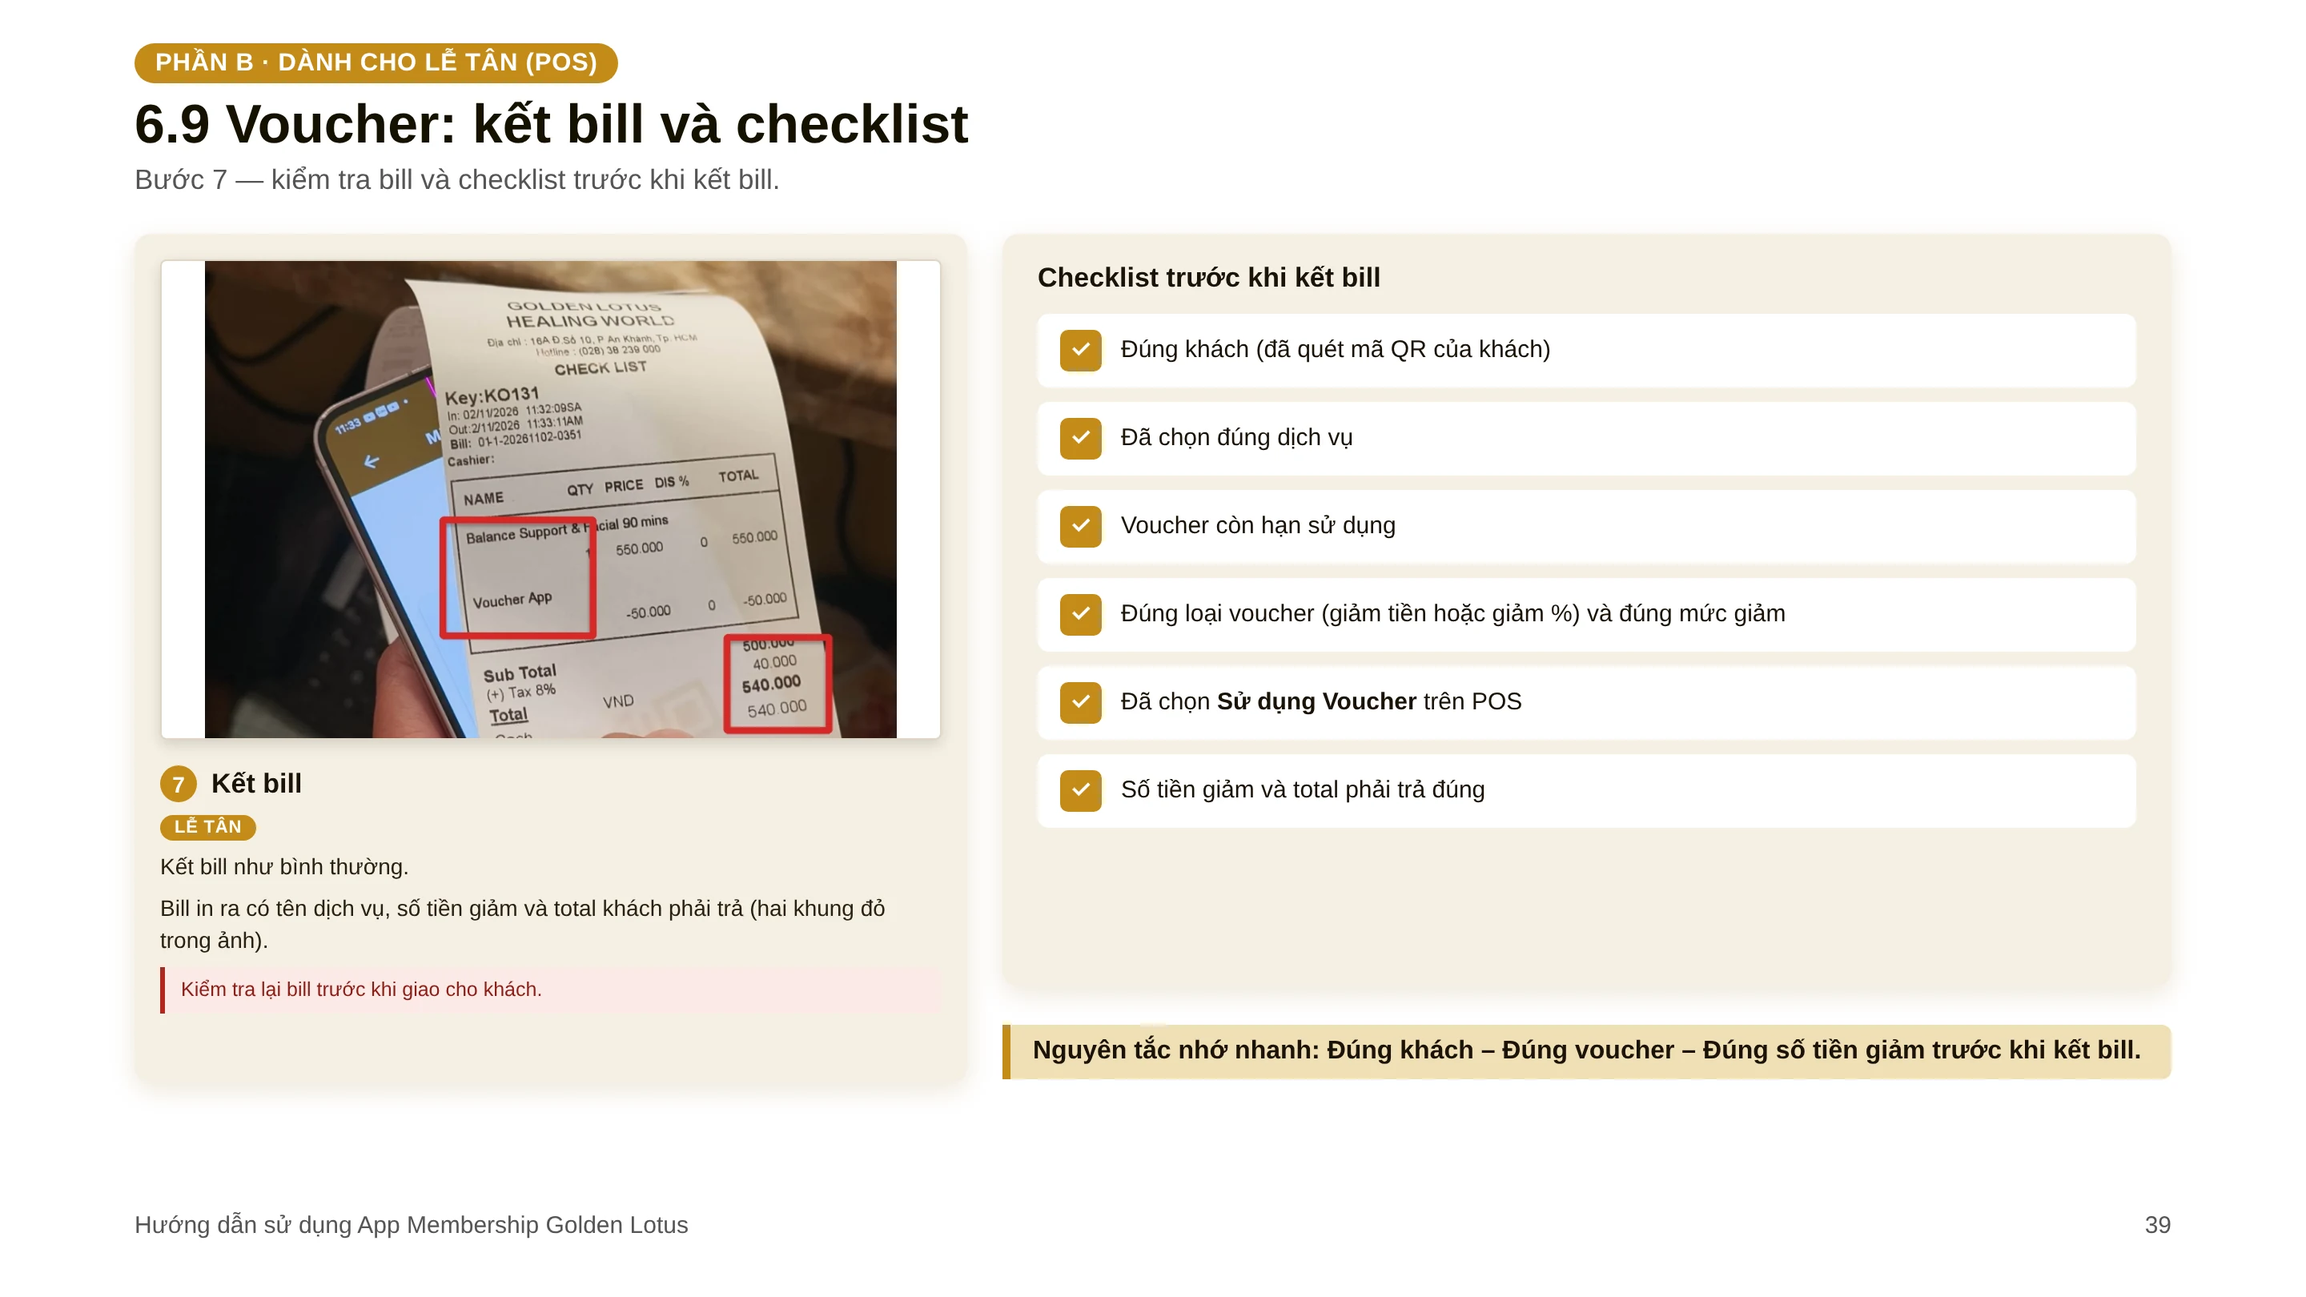
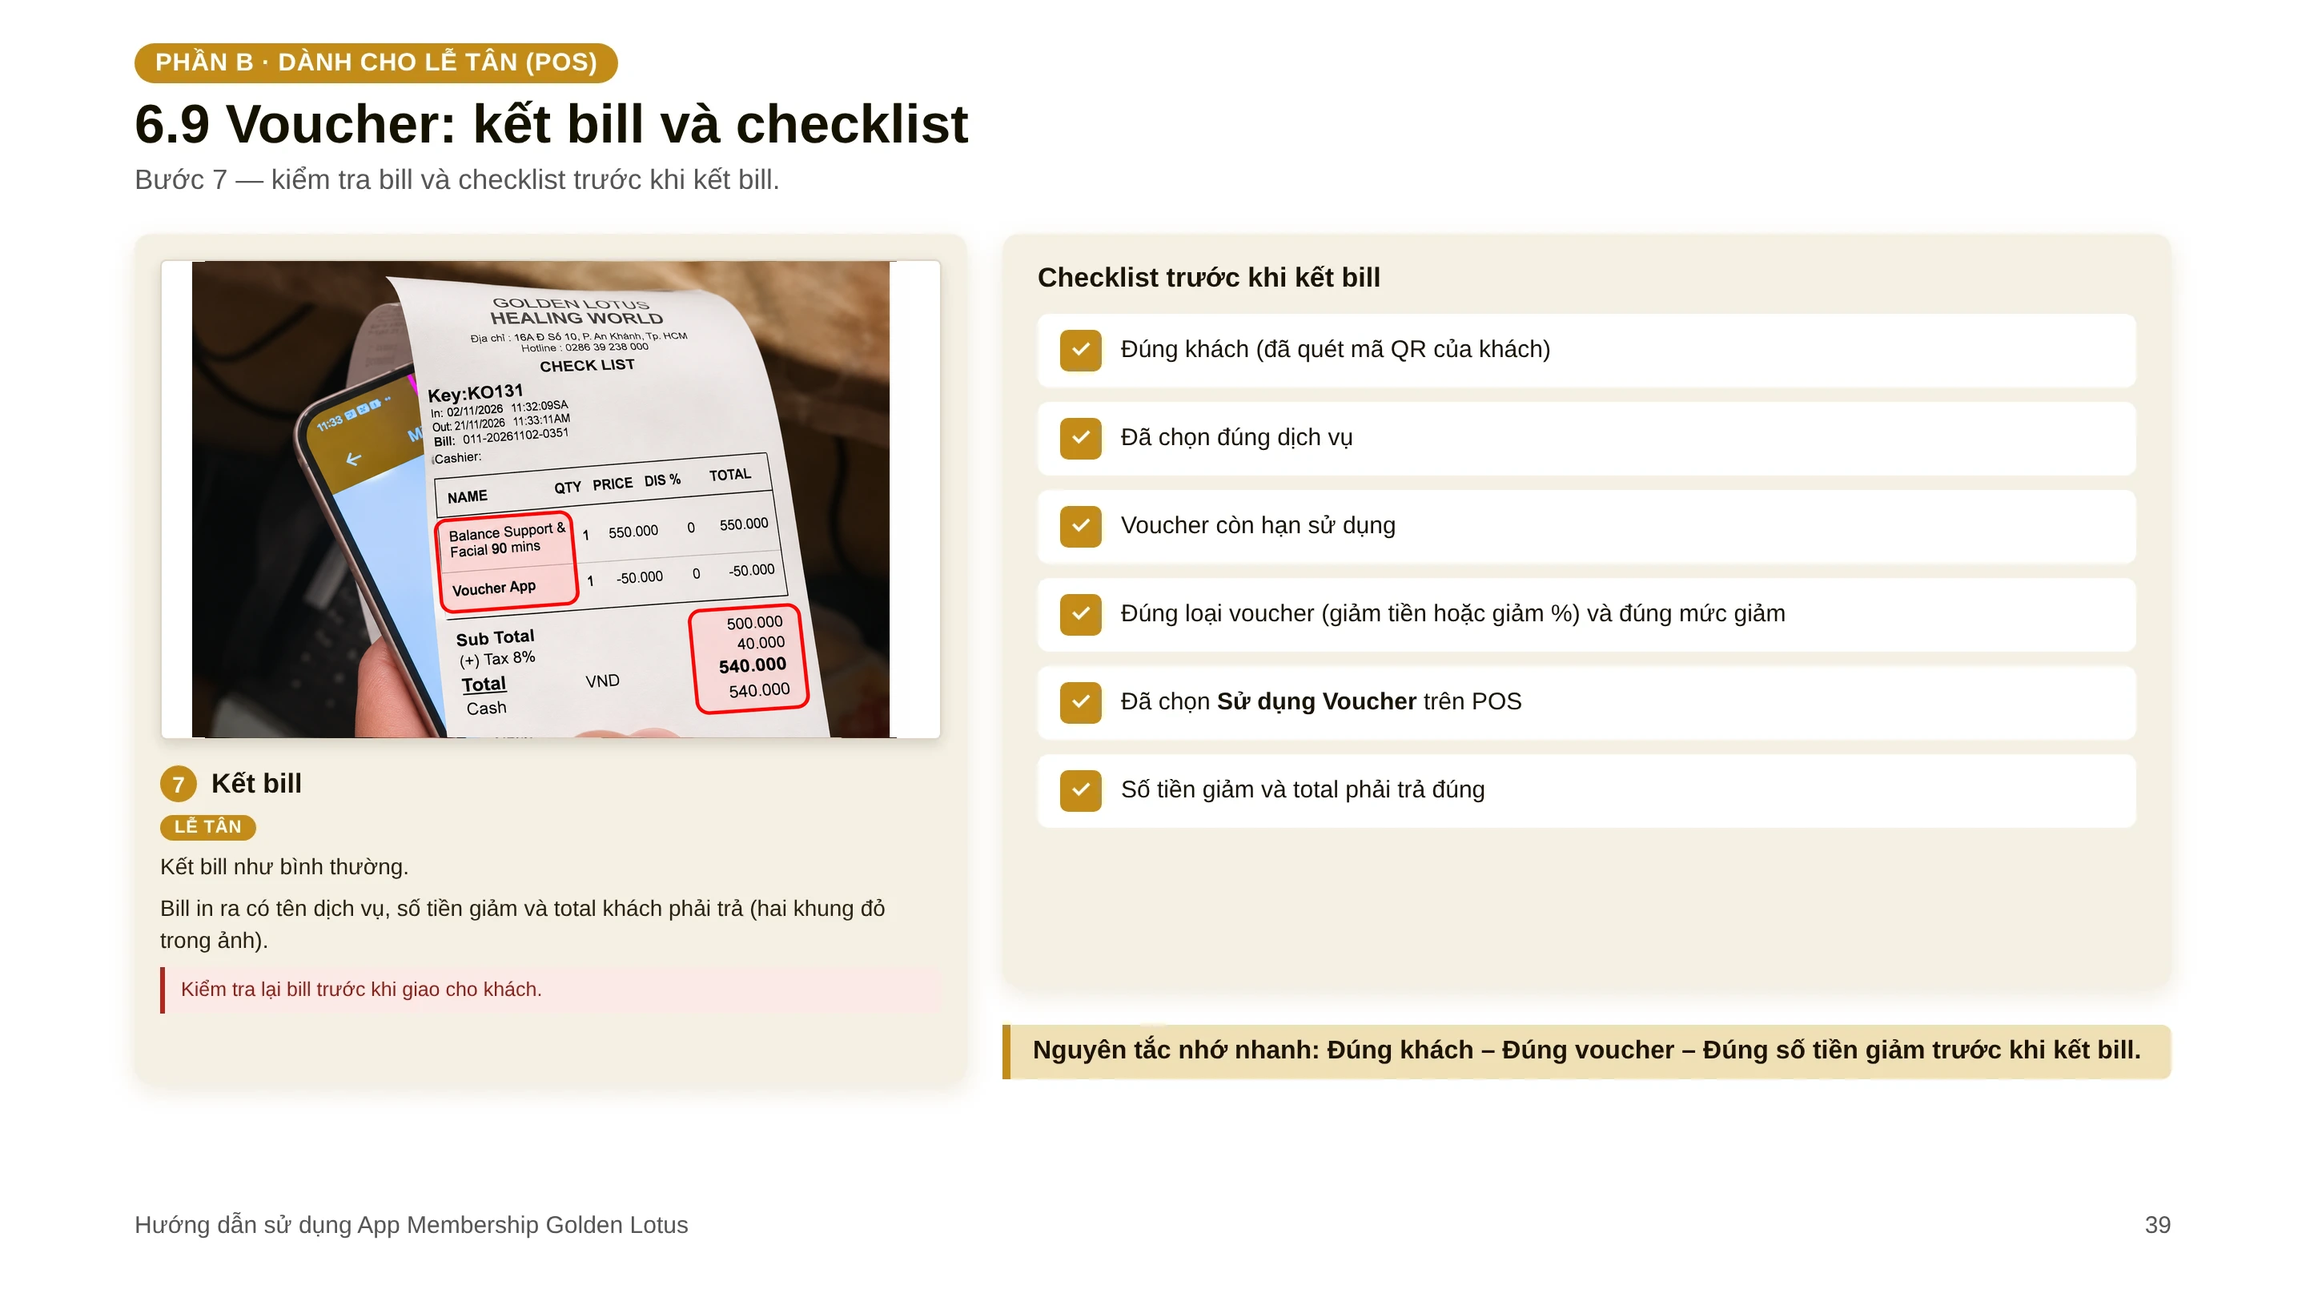
Slide 39: thay ảnh bill voucher mới
Claude-Session: https://claude.ai/code/session_01RoCCcE5aUAib2frrCe3aCP

Changed region(s): [[0.0625, 0.1852, 0.4062, 0.5864], [0.375, 0.216, 0.4062, 0.3086]]

diff --git a/membership-guide/src/app.html b/membership-guide/src/app.html
@@ -60,7 +60,7 @@ const NM=["Đăng ký tài khoản / Đăng nhập","Tìm lại mật khẩu","T
 const TO=[2,4,5,6,7,9,11,12,13,14,15,18,19,21,30,25,26];
 const CARDS=[[5.83,20.56,16.77,18.52],[23.75,20.56,16.77,18.52],[41.67,20.56,16.77,18.52],[59.58,20.56,16.77,18.52],[77.5,20.56,16.77,18.52],[5.83,40.74,16.77,18.52],[23.75,40.74,16.77,18.52],[41.67,40.74,16.77,18.52],[59.58,40.74,16.77,18.52],[5.83,67.96,9.0,18.52],[15.83,67.96,9.0,18.52],[25.83,67.96,9.0,18.52],[35.83,67.96,9.0,18.52],[45.83,67.96,9.0,18.52],[55.83,67.96,9.0,18.52],[72.92,67.96,10.07,18.52],[84.1,67.96,10.07,18.52]];
 const HOT=NM.map((n,i)=>({l:CARDS[i][0],t:CARDS[i][1],w:CARDS[i][2],h:CARDS[i][3],to:TO[i],name:n}));
-const ZONES={"2":[[5.1,28.89,13.09,47.55],[20.44,30.07,13.09,45.19],[35.78,28.65,13.09,48.03],[51.11,36.07,13.09,33.19],[66.45,29.71,13.09,45.92],[81.79,29.75,13.09,45.84]],"3":[[10.98,26.93,15.01,54.53],[42.47,26.93,15.04,54.53],[74.51,26.93,13.96,54.53]],"4":[[5.1,36.35,10.9,32.63],[18.25,37.0,10.9,31.33],[31.39,36.99,10.9,31.36],[44.54,35.58,10.9,34.17],[57.69,39.79,10.9,25.76],[70.83,38.88,10.9,27.57],[83.98,35.28,10.9,34.78]],"5":[[5.9,26.93,14.55,53.47],[23.51,46.94,16.16,13.46],[41.91,32.44,16.16,42.45],[60.32,42.27,16.16,22.8],[79.84,26.93,13.92,53.47]],"6":[[11.09,26.93,14.79,54.53],[41.83,26.93,16.31,54.53],[68.21,37.44,26.55,33.52]],"7":[[5.1,32.86,10.9,39.62],[18.25,37.44,10.9,30.45],[31.39,34.51,10.9,36.32],[44.54,31.95,10.9,41.44],[59.23,26.93,7.81,51.47],[70.83,30.18,10.9,44.98],[83.98,28.28,10.9,48.78]],"8":[[7.41,26.93,15.23,53.47],[28.41,36.35,19.86,34.64],[51.71,31.14,19.86,45.06],[75.96,26.93,17.97,53.47]],"9":[[11.04,26.93,14.9,54.53],[42.62,26.93,14.74,54.53],[68.21,34.78,26.55,38.84]],"10":[[5.1,35.46,10.9,39.48],[18.25,35.15,10.9,40.11],[31.39,39.31,10.9,31.78],[44.54,42.79,10.9,24.82],[57.69,35.05,10.9,40.3],[70.83,39.31,10.9,31.78],[83.98,42.79,10.9,24.82]],"11":[[10.96, 26.93, 15.05, 54.53], [43.06, 26.67, 13.89, 54.81, "pos_diem_1.webp", 900, 2000], [74.51, 26.67, 13.89, 54.81, "pos_diem_2.webp", 900, 2000]],"12":[[11.12,26.93,14.74,54.53],[42.28,26.93,15.42,54.53],[73.98,26.93,15.01,54.53]],"13":[[7.83,26.93,21.32,54.53],[39.73,26.93,20.51,54.53],[73.98,26.93,15.01,54.53]],"14":[[32.4,19.63,65.97,60.3,"lt_cms.webp",1836,942]],"15":[[7.15,35.93,32.64,33.83,"lt_ds1.webp",1686,1004],[41.11,35.93,32.64,33.83,"lt_ds2.webp",1687,1006]],"16":[[6.81,19.63,84.72,25.03,"lt_filter.webp",1420,234]],"17":[[6.81,19.63,76.39,37.38,"lt_table.webp",1420,389]],"18":[[6.81,19.63,34.03,30.15,"b_bk3.webp",1920,953],[8.82,57.28,30.0,30.12,"b_bk4n.webp",1352,764]],"19":[[6.81,19.63,67.36,62.96,"lt_lh.webp",1854,973]],"20":[[6.81,19.63,64.03,11.6,"lh_top.webp",920,92],[6.81,38.89,64.03,40.93,"lh_grid.webp",1340,480]],"21":[[5.83,24.26,52.6,48.57],[60.42,63.89,19.79,25.7]],"22":[[5.83,24.26,54.69,56.16]],"23":[[5.83,24.26,61.46,47.39]],"24":[[6.81,19.63,40.97,36.28,"b_bk5.webp",1920,953],[51.67,19.63,40.97,36.28,"b_bk6.webp",1920,953]],"25":[[27.22,19.63,65.97,59.97,"kt_full.webp",1852,945]],"26":[[6.81,19.63,67.36,61.23,"kt_full.webp",1852,945]],"27":[[6.81,19.63,86.39,18.48,"kt_cards.webp",1430,170],[6.81,42.8,86.39,14.4,"kt_filter.webp",1430,132]],"28":[[6.81,19.63,84.72,42.65,"kt_table.webp",1390,392]],"29":[[6.81,19.63,84.72,42.65,"kt_table.webp",1390,392]],"31":[[7.08, 20.25, 18.06, 53.58, "pos_ph_00.jpg", 425, 652], [52.01, 20.25, 18.06, 53.58, "pos_ph_01.jpg", 416, 630]],"32":[[6.94, 20.0, 26.18, 40.74, "pos_ph_02.jpg", 478, 532], [36.88, 20.0, 26.18, 40.74, "pos_use_point_full.jpg", 1910, 1085], [66.81, 20.0, 26.18, 40.74, "pos_ph_03.jpg", 409, 655]],"33":[[6.94, 20.0, 26.18, 40.74, "pos_ph_04.jpg", 558, 868], [36.88, 20.0, 26.18, 40.74, "pos_ph_05.jpg", 552, 635], [66.81, 20.0, 26.18, 40.74, "pos_ph_06.jpg", 445, 654]],"36":[[6.94, 20.0, 26.18, 40.74, "pos_ph_07.jpg", 425, 652], [36.88, 20.0, 26.18, 40.74, "pos_ph_08.jpg", 416, 630], [66.81, 20.0, 26.18, 40.74, "pos_ph_09.jpg", 1758, 868]],"37":[[6.94, 20.0, 26.18, 40.74, "pos_ph_10.jpg", 506, 848], [36.88, 20.0, 26.18, 40.74, "pos_ph_11.jpg", 987, 862], [66.81, 20.0, 26.18, 40.74, "pos_ph_12.jpg", 2048, 939]],"38":[[6.94, 20.0, 33.89, 37.04, "pos_ph_13.jpg", 935, 646]],"39":[[6.67, 19.51, 34.44, 61.23, "pos_huy_phieu.jpg", 1000, 975]]};
+const ZONES={"2":[[5.1,28.89,13.09,47.55],[20.44,30.07,13.09,45.19],[35.78,28.65,13.09,48.03],[51.11,36.07,13.09,33.19],[66.45,29.71,13.09,45.92],[81.79,29.75,13.09,45.84]],"3":[[10.98,26.93,15.01,54.53],[42.47,26.93,15.04,54.53],[74.51,26.93,13.96,54.53]],"4":[[5.1,36.35,10.9,32.63],[18.25,37.0,10.9,31.33],[31.39,36.99,10.9,31.36],[44.54,35.58,10.9,34.17],[57.69,39.79,10.9,25.76],[70.83,38.88,10.9,27.57],[83.98,35.28,10.9,34.78]],"5":[[5.9,26.93,14.55,53.47],[23.51,46.94,16.16,13.46],[41.91,32.44,16.16,42.45],[60.32,42.27,16.16,22.8],[79.84,26.93,13.92,53.47]],"6":[[11.09,26.93,14.79,54.53],[41.83,26.93,16.31,54.53],[68.21,37.44,26.55,33.52]],"7":[[5.1,32.86,10.9,39.62],[18.25,37.44,10.9,30.45],[31.39,34.51,10.9,36.32],[44.54,31.95,10.9,41.44],[59.23,26.93,7.81,51.47],[70.83,30.18,10.9,44.98],[83.98,28.28,10.9,48.78]],"8":[[7.41,26.93,15.23,53.47],[28.41,36.35,19.86,34.64],[51.71,31.14,19.86,45.06],[75.96,26.93,17.97,53.47]],"9":[[11.04,26.93,14.9,54.53],[42.62,26.93,14.74,54.53],[68.21,34.78,26.55,38.84]],"10":[[5.1,35.46,10.9,39.48],[18.25,35.15,10.9,40.11],[31.39,39.31,10.9,31.78],[44.54,42.79,10.9,24.82],[57.69,35.05,10.9,40.3],[70.83,39.31,10.9,31.78],[83.98,42.79,10.9,24.82]],"11":[[10.96, 26.93, 15.05, 54.53], [43.06, 26.67, 13.89, 54.81, "pos_diem_1.webp", 900, 2000], [74.51, 26.67, 13.89, 54.81, "pos_diem_2.webp", 900, 2000]],"12":[[11.12,26.93,14.74,54.53],[42.28,26.93,15.42,54.53],[73.98,26.93,15.01,54.53]],"13":[[7.83,26.93,21.32,54.53],[39.73,26.93,20.51,54.53],[73.98,26.93,15.01,54.53]],"14":[[32.4,19.63,65.97,60.3,"lt_cms.webp",1836,942]],"15":[[7.15,35.93,32.64,33.83,"lt_ds1.webp",1686,1004],[41.11,35.93,32.64,33.83,"lt_ds2.webp",1687,1006]],"16":[[6.81,19.63,84.72,25.03,"lt_filter.webp",1420,234]],"17":[[6.81,19.63,76.39,37.38,"lt_table.webp",1420,389]],"18":[[6.81,19.63,34.03,30.15,"b_bk3.webp",1920,953],[8.82,57.28,30.0,30.12,"b_bk4n.webp",1352,764]],"19":[[6.81,19.63,67.36,62.96,"lt_lh.webp",1854,973]],"20":[[6.81,19.63,64.03,11.6,"lh_top.webp",920,92],[6.81,38.89,64.03,40.93,"lh_grid.webp",1340,480]],"21":[[5.83,24.26,52.6,48.57],[60.42,63.89,19.79,25.7]],"22":[[5.83,24.26,54.69,56.16]],"23":[[5.83,24.26,61.46,47.39]],"24":[[6.81,19.63,40.97,36.28,"b_bk5.webp",1920,953],[51.67,19.63,40.97,36.28,"b_bk6.webp",1920,953]],"25":[[27.22,19.63,65.97,59.97,"kt_full.webp",1852,945]],"26":[[6.81,19.63,67.36,61.23,"kt_full.webp",1852,945]],"27":[[6.81,19.63,86.39,18.48,"kt_cards.webp",1430,170],[6.81,42.8,86.39,14.4,"kt_filter.webp",1430,132]],"28":[[6.81,19.63,84.72,42.65,"kt_table.webp",1390,392]],"29":[[6.81,19.63,84.72,42.65,"kt_table.webp",1390,392]],"31":[[7.08, 20.25, 18.06, 53.58, "pos_ph_00.jpg", 425, 652], [52.01, 20.25, 18.06, 53.58, "pos_ph_01.jpg", 416, 630]],"32":[[6.94, 20.0, 26.18, 40.74, "pos_ph_02.jpg", 478, 532], [36.88, 20.0, 26.18, 40.74, "pos_use_point_full.jpg", 1910, 1085], [66.81, 20.0, 26.18, 40.74, "pos_ph_03.jpg", 409, 655]],"33":[[6.94, 20.0, 26.18, 40.74, "pos_ph_04.jpg", 558, 868], [36.88, 20.0, 26.18, 40.74, "pos_ph_05.jpg", 552, 635], [66.81, 20.0, 26.18, 40.74, "pos_ph_06.jpg", 445, 654]],"36":[[6.94, 20.0, 26.18, 40.74, "pos_ph_07.jpg", 425, 652], [36.88, 20.0, 26.18, 40.74, "pos_ph_08.jpg", 416, 630], [66.81, 20.0, 26.18, 40.74, "pos_ph_09.jpg", 1758, 868]],"37":[[6.94, 20.0, 26.18, 40.74, "pos_ph_10.jpg", 506, 848], [36.88, 20.0, 26.18, 40.74, "pos_ph_11.jpg", 987, 862], [66.81, 20.0, 26.18, 40.74, "pos_ph_12.jpg", 2048, 939]],"38":[[8.33, 20.19, 31.15, 36.67, "pos_bill_voucher.jpg", 1541, 1021]],"39":[[6.67, 19.51, 34.44, 61.23, "pos_huy_phieu.jpg", 1000, 975]]};
 const SIZES=[148518,242384,443017,373956,424631,517810,395477,518151,401313,393800,597413,375189,449216,393479,329762];
 let IMGS=[];
 const img=document.getElementById('img'),slide=document.getElementById('slide');

diff --git a/membership-guide/src/index.html b/membership-guide/src/index.html
@@ -60,7 +60,7 @@ const NM=["Đăng ký tài khoản / Đăng nhập","Tìm lại mật khẩu","T
 const TO=[2,4,5,6,7,9,11,12,13,14,15,18,19,21,30,25,26];
 const CARDS=[[5.83,20.56,16.77,18.52],[23.75,20.56,16.77,18.52],[41.67,20.56,16.77,18.52],[59.58,20.56,16.77,18.52],[77.5,20.56,16.77,18.52],[5.83,40.74,16.77,18.52],[23.75,40.74,16.77,18.52],[41.67,40.74,16.77,18.52],[59.58,40.74,16.77,18.52],[5.83,67.96,9.0,18.52],[15.83,67.96,9.0,18.52],[25.83,67.96,9.0,18.52],[35.83,67.96,9.0,18.52],[45.83,67.96,9.0,18.52],[55.83,67.96,9.0,18.52],[72.92,67.96,10.07,18.52],[84.1,67.96,10.07,18.52]];
 const HOT=NM.map((n,i)=>({l:CARDS[i][0],t:CARDS[i][1],w:CARDS[i][2],h:CARDS[i][3],to:TO[i],name:n}));
-const ZONES={"2":[[5.1,28.89,13.09,47.55],[20.44,30.07,13.09,45.19],[35.78,28.65,13.09,48.03],[51.11,36.07,13.09,33.19],[66.45,29.71,13.09,45.92],[81.79,29.75,13.09,45.84]],"3":[[10.98,26.93,15.01,54.53],[42.47,26.93,15.04,54.53],[74.51,26.93,13.96,54.53]],"4":[[5.1,36.35,10.9,32.63],[18.25,37.0,10.9,31.33],[31.39,36.99,10.9,31.36],[44.54,35.58,10.9,34.17],[57.69,39.79,10.9,25.76],[70.83,38.88,10.9,27.57],[83.98,35.28,10.9,34.78]],"5":[[5.9,26.93,14.55,53.47],[23.51,46.94,16.16,13.46],[41.91,32.44,16.16,42.45],[60.32,42.27,16.16,22.8],[79.84,26.93,13.92,53.47]],"6":[[11.09,26.93,14.79,54.53],[41.83,26.93,16.31,54.53],[68.21,37.44,26.55,33.52]],"7":[[5.1,32.86,10.9,39.62],[18.25,37.44,10.9,30.45],[31.39,34.51,10.9,36.32],[44.54,31.95,10.9,41.44],[59.23,26.93,7.81,51.47],[70.83,30.18,10.9,44.98],[83.98,28.28,10.9,48.78]],"8":[[7.41,26.93,15.23,53.47],[28.41,36.35,19.86,34.64],[51.71,31.14,19.86,45.06],[75.96,26.93,17.97,53.47]],"9":[[11.04,26.93,14.9,54.53],[42.62,26.93,14.74,54.53],[68.21,34.78,26.55,38.84]],"10":[[5.1,35.46,10.9,39.48],[18.25,35.15,10.9,40.11],[31.39,39.31,10.9,31.78],[44.54,42.79,10.9,24.82],[57.69,35.05,10.9,40.3],[70.83,39.31,10.9,31.78],[83.98,42.79,10.9,24.82]],"11":[[10.96, 26.93, 15.05, 54.53], [43.06, 26.67, 13.89, 54.81, "pos_diem_1.webp", 900, 2000], [74.51, 26.67, 13.89, 54.81, "pos_diem_2.webp", 900, 2000]],"12":[[11.12,26.93,14.74,54.53],[42.28,26.93,15.42,54.53],[73.98,26.93,15.01,54.53]],"13":[[7.83,26.93,21.32,54.53],[39.73,26.93,20.51,54.53],[73.98,26.93,15.01,54.53]],"14":[[32.4,19.63,65.97,60.3,"lt_cms.webp",1836,942]],"15":[[7.15,35.93,32.64,33.83,"lt_ds1.webp",1686,1004],[41.11,35.93,32.64,33.83,"lt_ds2.webp",1687,1006]],"16":[[6.81,19.63,84.72,25.03,"lt_filter.webp",1420,234]],"17":[[6.81,19.63,76.39,37.38,"lt_table.webp",1420,389]],"18":[[6.81,19.63,34.03,30.15,"b_bk3.webp",1920,953],[8.82,57.28,30.0,30.12,"b_bk4n.webp",1352,764]],"19":[[6.81,19.63,67.36,62.96,"lt_lh.webp",1854,973]],"20":[[6.81,19.63,64.03,11.6,"lh_top.webp",920,92],[6.81,38.89,64.03,40.93,"lh_grid.webp",1340,480]],"21":[[5.83,24.26,52.6,48.57],[60.42,63.89,19.79,25.7]],"22":[[5.83,24.26,54.69,56.16]],"23":[[5.83,24.26,61.46,47.39]],"24":[[6.81,19.63,40.97,36.28,"b_bk5.webp",1920,953],[51.67,19.63,40.97,36.28,"b_bk6.webp",1920,953]],"25":[[27.22,19.63,65.97,59.97,"kt_full.webp",1852,945]],"26":[[6.81,19.63,67.36,61.23,"kt_full.webp",1852,945]],"27":[[6.81,19.63,86.39,18.48,"kt_cards.webp",1430,170],[6.81,42.8,86.39,14.4,"kt_filter.webp",1430,132]],"28":[[6.81,19.63,84.72,42.65,"kt_table.webp",1390,392]],"29":[[6.81,19.63,84.72,42.65,"kt_table.webp",1390,392]],"31":[[7.08, 20.25, 18.06, 53.58, "pos_ph_00.jpg", 425, 652], [52.01, 20.25, 18.06, 53.58, "pos_ph_01.jpg", 416, 630]],"32":[[6.94, 20.0, 26.18, 40.74, "pos_ph_02.jpg", 478, 532], [36.88, 20.0, 26.18, 40.74, "pos_use_point_full.jpg", 1910, 1085], [66.81, 20.0, 26.18, 40.74, "pos_ph_03.jpg", 409, 655]],"33":[[6.94, 20.0, 26.18, 40.74, "pos_ph_04.jpg", 558, 868], [36.88, 20.0, 26.18, 40.74, "pos_ph_05.jpg", 552, 635], [66.81, 20.0, 26.18, 40.74, "pos_ph_06.jpg", 445, 654]],"36":[[6.94, 20.0, 26.18, 40.74, "pos_ph_07.jpg", 425, 652], [36.88, 20.0, 26.18, 40.74, "pos_ph_08.jpg", 416, 630], [66.81, 20.0, 26.18, 40.74, "pos_ph_09.jpg", 1758, 868]],"37":[[6.94, 20.0, 26.18, 40.74, "pos_ph_10.jpg", 506, 848], [36.88, 20.0, 26.18, 40.74, "pos_ph_11.jpg", 987, 862], [66.81, 20.0, 26.18, 40.74, "pos_ph_12.jpg", 2048, 939]],"38":[[6.94, 20.0, 33.89, 37.04, "pos_ph_13.jpg", 935, 646]],"39":[[6.67, 19.51, 34.44, 61.23, "pos_huy_phieu.jpg", 1000, 975]]};
+const ZONES={"2":[[5.1,28.89,13.09,47.55],[20.44,30.07,13.09,45.19],[35.78,28.65,13.09,48.03],[51.11,36.07,13.09,33.19],[66.45,29.71,13.09,45.92],[81.79,29.75,13.09,45.84]],"3":[[10.98,26.93,15.01,54.53],[42.47,26.93,15.04,54.53],[74.51,26.93,13.96,54.53]],"4":[[5.1,36.35,10.9,32.63],[18.25,37.0,10.9,31.33],[31.39,36.99,10.9,31.36],[44.54,35.58,10.9,34.17],[57.69,39.79,10.9,25.76],[70.83,38.88,10.9,27.57],[83.98,35.28,10.9,34.78]],"5":[[5.9,26.93,14.55,53.47],[23.51,46.94,16.16,13.46],[41.91,32.44,16.16,42.45],[60.32,42.27,16.16,22.8],[79.84,26.93,13.92,53.47]],"6":[[11.09,26.93,14.79,54.53],[41.83,26.93,16.31,54.53],[68.21,37.44,26.55,33.52]],"7":[[5.1,32.86,10.9,39.62],[18.25,37.44,10.9,30.45],[31.39,34.51,10.9,36.32],[44.54,31.95,10.9,41.44],[59.23,26.93,7.81,51.47],[70.83,30.18,10.9,44.98],[83.98,28.28,10.9,48.78]],"8":[[7.41,26.93,15.23,53.47],[28.41,36.35,19.86,34.64],[51.71,31.14,19.86,45.06],[75.96,26.93,17.97,53.47]],"9":[[11.04,26.93,14.9,54.53],[42.62,26.93,14.74,54.53],[68.21,34.78,26.55,38.84]],"10":[[5.1,35.46,10.9,39.48],[18.25,35.15,10.9,40.11],[31.39,39.31,10.9,31.78],[44.54,42.79,10.9,24.82],[57.69,35.05,10.9,40.3],[70.83,39.31,10.9,31.78],[83.98,42.79,10.9,24.82]],"11":[[10.96, 26.93, 15.05, 54.53], [43.06, 26.67, 13.89, 54.81, "pos_diem_1.webp", 900, 2000], [74.51, 26.67, 13.89, 54.81, "pos_diem_2.webp", 900, 2000]],"12":[[11.12,26.93,14.74,54.53],[42.28,26.93,15.42,54.53],[73.98,26.93,15.01,54.53]],"13":[[7.83,26.93,21.32,54.53],[39.73,26.93,20.51,54.53],[73.98,26.93,15.01,54.53]],"14":[[32.4,19.63,65.97,60.3,"lt_cms.webp",1836,942]],"15":[[7.15,35.93,32.64,33.83,"lt_ds1.webp",1686,1004],[41.11,35.93,32.64,33.83,"lt_ds2.webp",1687,1006]],"16":[[6.81,19.63,84.72,25.03,"lt_filter.webp",1420,234]],"17":[[6.81,19.63,76.39,37.38,"lt_table.webp",1420,389]],"18":[[6.81,19.63,34.03,30.15,"b_bk3.webp",1920,953],[8.82,57.28,30.0,30.12,"b_bk4n.webp",1352,764]],"19":[[6.81,19.63,67.36,62.96,"lt_lh.webp",1854,973]],"20":[[6.81,19.63,64.03,11.6,"lh_top.webp",920,92],[6.81,38.89,64.03,40.93,"lh_grid.webp",1340,480]],"21":[[5.83,24.26,52.6,48.57],[60.42,63.89,19.79,25.7]],"22":[[5.83,24.26,54.69,56.16]],"23":[[5.83,24.26,61.46,47.39]],"24":[[6.81,19.63,40.97,36.28,"b_bk5.webp",1920,953],[51.67,19.63,40.97,36.28,"b_bk6.webp",1920,953]],"25":[[27.22,19.63,65.97,59.97,"kt_full.webp",1852,945]],"26":[[6.81,19.63,67.36,61.23,"kt_full.webp",1852,945]],"27":[[6.81,19.63,86.39,18.48,"kt_cards.webp",1430,170],[6.81,42.8,86.39,14.4,"kt_filter.webp",1430,132]],"28":[[6.81,19.63,84.72,42.65,"kt_table.webp",1390,392]],"29":[[6.81,19.63,84.72,42.65,"kt_table.webp",1390,392]],"31":[[7.08, 20.25, 18.06, 53.58, "pos_ph_00.jpg", 425, 652], [52.01, 20.25, 18.06, 53.58, "pos_ph_01.jpg", 416, 630]],"32":[[6.94, 20.0, 26.18, 40.74, "pos_ph_02.jpg", 478, 532], [36.88, 20.0, 26.18, 40.74, "pos_use_point_full.jpg", 1910, 1085], [66.81, 20.0, 26.18, 40.74, "pos_ph_03.jpg", 409, 655]],"33":[[6.94, 20.0, 26.18, 40.74, "pos_ph_04.jpg", 558, 868], [36.88, 20.0, 26.18, 40.74, "pos_ph_05.jpg", 552, 635], [66.81, 20.0, 26.18, 40.74, "pos_ph_06.jpg", 445, 654]],"36":[[6.94, 20.0, 26.18, 40.74, "pos_ph_07.jpg", 425, 652], [36.88, 20.0, 26.18, 40.74, "pos_ph_08.jpg", 416, 630], [66.81, 20.0, 26.18, 40.74, "pos_ph_09.jpg", 1758, 868]],"37":[[6.94, 20.0, 26.18, 40.74, "pos_ph_10.jpg", 506, 848], [36.88, 20.0, 26.18, 40.74, "pos_ph_11.jpg", 987, 862], [66.81, 20.0, 26.18, 40.74, "pos_ph_12.jpg", 2048, 939]],"38":[[8.33, 20.19, 31.15, 36.67, "pos_bill_voucher.jpg", 1541, 1021]],"39":[[6.67, 19.51, 34.44, 61.23, "pos_huy_phieu.jpg", 1000, 975]]};
 const SIZES=[148518,242384,443017,373956,424631,517810,395477,518151,401313,393800,597413,375189,449216,393479,329762];
 let IMGS=[];
 const img=document.getElementById('img'),slide=document.getElementById('slide');
